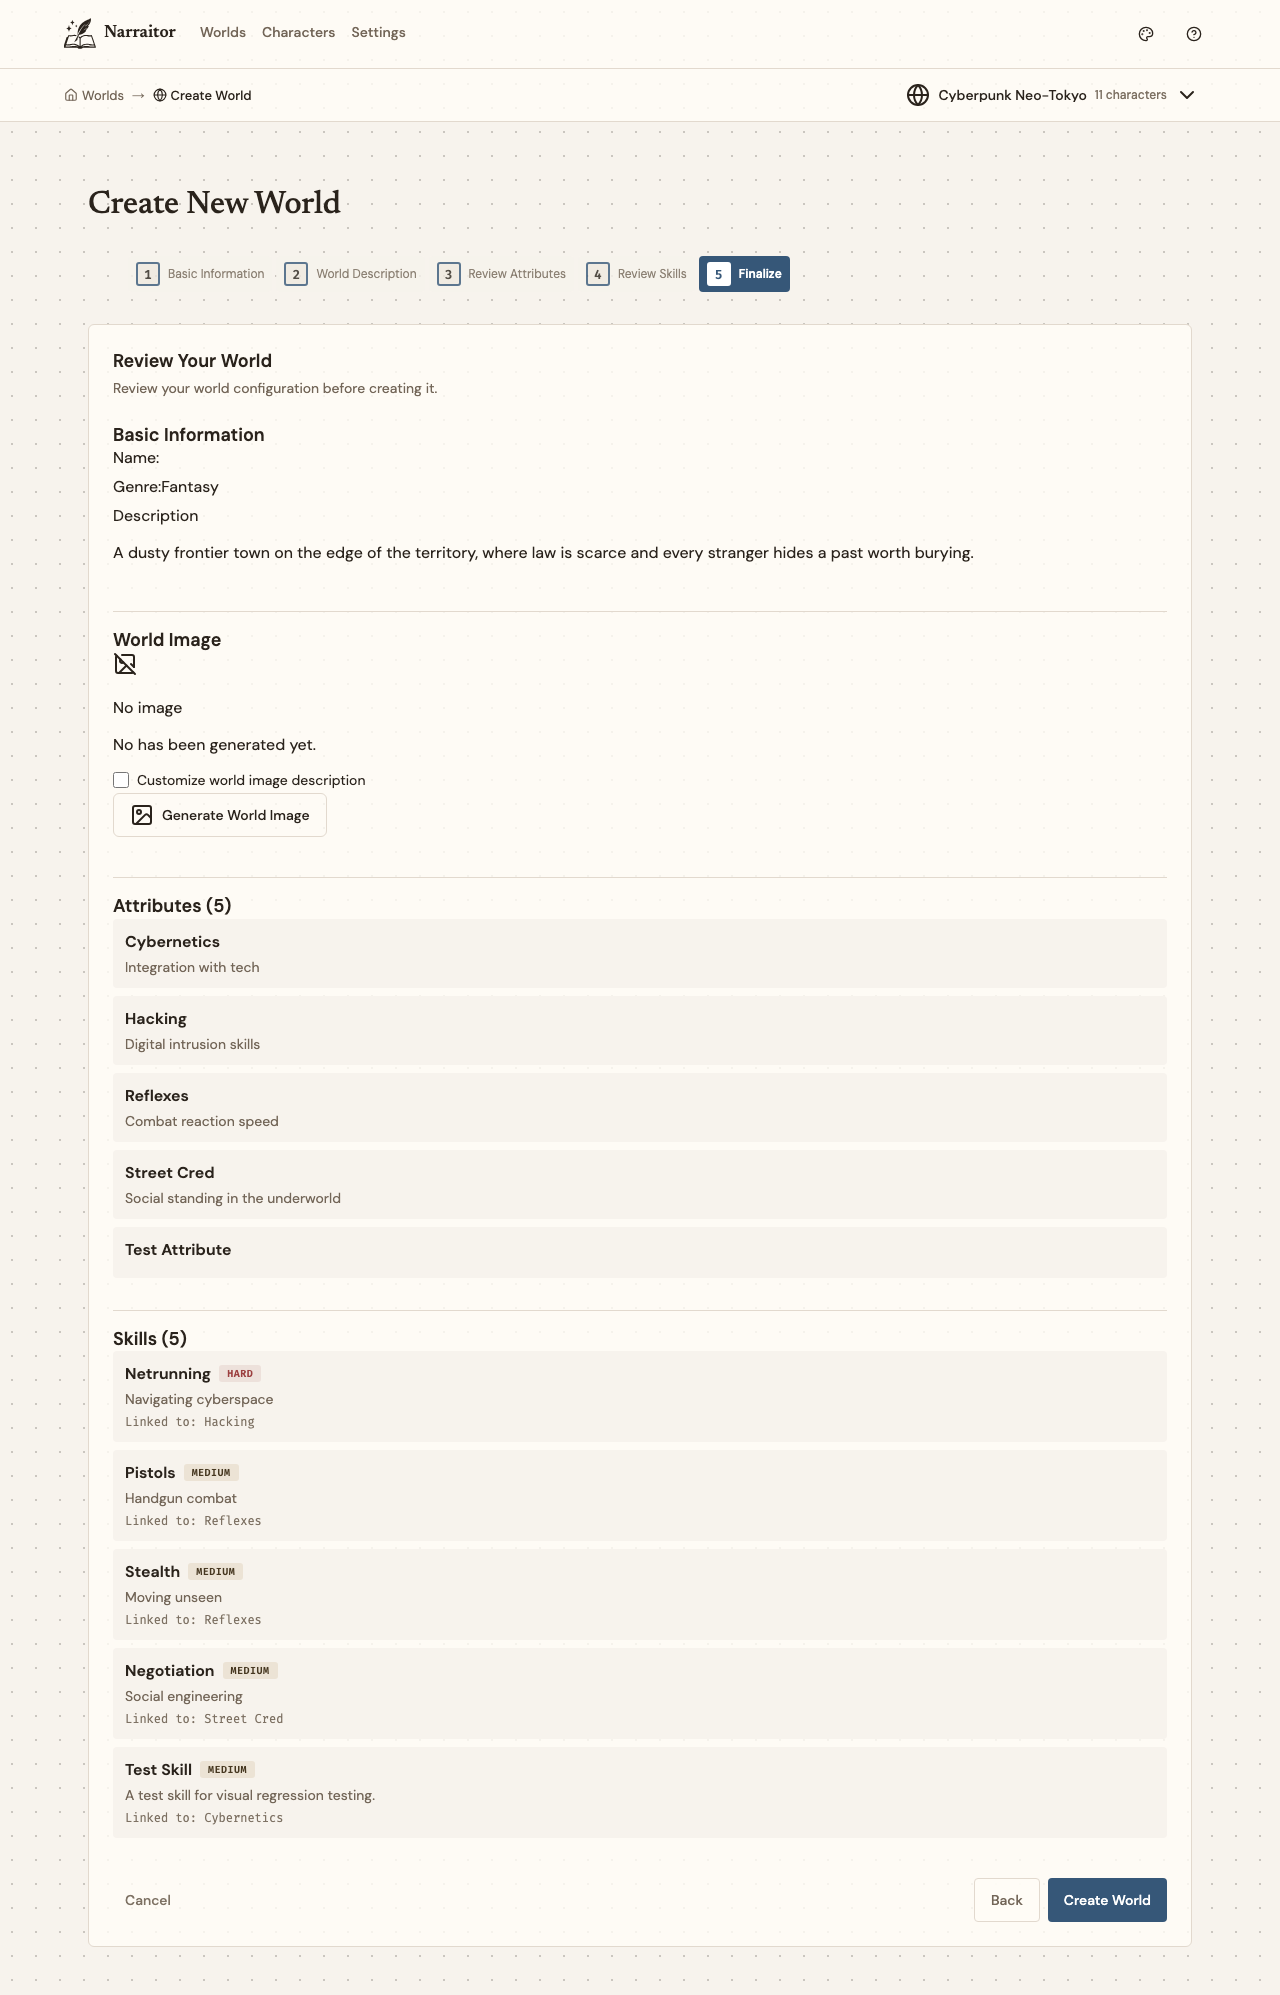
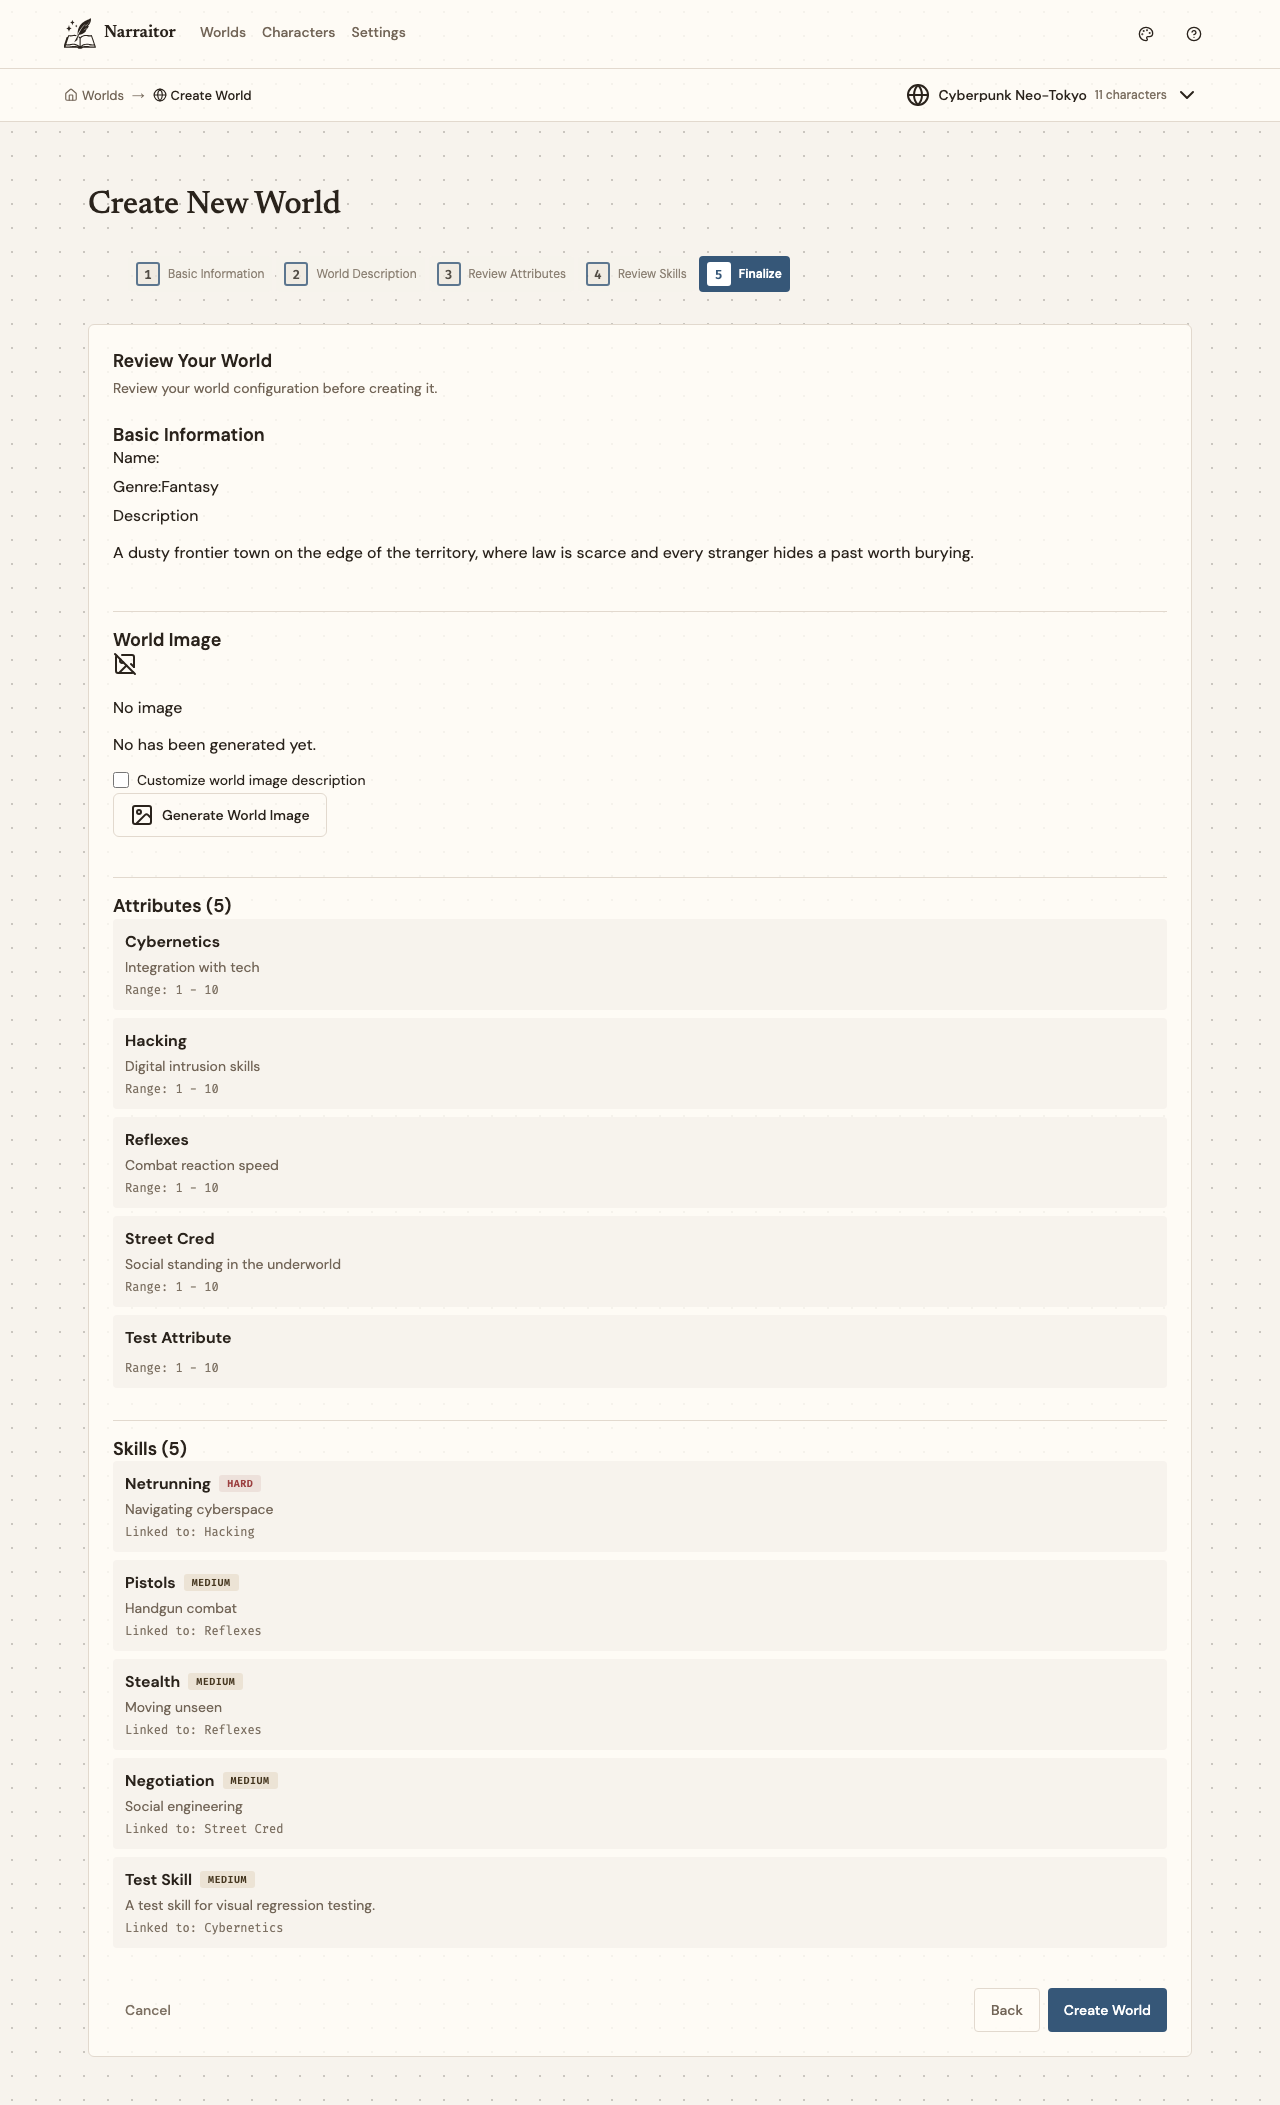
fix(wizard): address owner review feedback on a11y, radio grouping, ranges, and toggle styling

diff --git a/src/components/WorldCreationWizard/steps/FinalizeStep.test.tsx b/src/components/WorldCreationWizard/steps/FinalizeStep.test.tsx
@@ -1,0 +1,73 @@
+import React from 'react';
+import { render, screen } from '@testing-library/react';
+import FinalizeStep from './FinalizeStep';
+import { World } from '@/types/world.types';
+
+describe('FinalizeStep', () => {
+  const mockWorldData: Partial<World> = {
+    name: 'Aethelgard',
+    description: 'A realm of high fantasy and ancient magic',
+    genre: 'fantasy',
+    attributes: [
+      {
+        id: 'attr-1',
+        worldId: 'world-1',
+        name: 'Might',
+        description: 'Physical prowess and raw power',
+        baseValue: 10,
+        minValue: 1,
+        maxValue: 20,
+      },
+      {
+        id: 'attr-2',
+        worldId: 'world-1',
+        name: 'Wits',
+        description: 'Mental agility and cleverness',
+        baseValue: 10,
+        minValue: 3,
+        maxValue: 18,
+      },
+    ],
+    skills: [
+      {
+        id: 'skill-1',
+        worldId: 'world-1',
+        name: 'Swordsmanship',
+        description: 'Mastery of bladed weapons',
+        difficulty: 'medium',
+        baseValue: 1,
+        minValue: 0,
+        maxValue: 10,
+      },
+    ],
+  };
+
+  it('renders all attributes with name, description, and min/max range', () => {
+    render(
+      <FinalizeStep
+        worldData={mockWorldData}
+        onUpdateWorldData={jest.fn()}
+      />
+    );
+
+    expect(screen.getByText('Might')).toBeInTheDocument();
+    expect(screen.getByText('Physical prowess and raw power')).toBeInTheDocument();
+    expect(screen.getByText('Range: 1 - 20')).toBeInTheDocument();
+
+    expect(screen.getByText('Wits')).toBeInTheDocument();
+    expect(screen.getByText('Mental agility and cleverness')).toBeInTheDocument();
+    expect(screen.getByText('Range: 3 - 18')).toBeInTheDocument();
+  });
+
+  it('renders empty state when no attributes or skills are present', () => {
+    render(
+      <FinalizeStep
+        worldData={{ name: 'Empty World' }}
+        onUpdateWorldData={jest.fn()}
+      />
+    );
+
+    expect(screen.getByText('No attributes selected')).toBeInTheDocument();
+    expect(screen.getByText('No skills selected')).toBeInTheDocument();
+  });
+});

diff --git a/src/components/shared/wizard/__tests__/ToggleButton.test.tsx b/src/components/shared/wizard/__tests__/ToggleButton.test.tsx
@@ -1,0 +1,53 @@
+import { render, screen, fireEvent } from '@testing-library/react';
+import { ToggleButton } from '../components/ToggleButton';
+
+describe('ToggleButton', () => {
+  it('renders active state with aria-pressed="true" and active label', () => {
+    render(<ToggleButton isActive={true} onClick={jest.fn()} />);
+
+    const button = screen.getByRole('button');
+    expect(button).toHaveAttribute('aria-pressed', 'true');
+    expect(button).toHaveTextContent('Selected');
+    expect(button).toHaveClass('wizard-toggle-active');
+    expect(button).toHaveClass('component-toggle-button');
+  });
+
+  it('renders inactive state with aria-pressed="false" and inactive label', () => {
+    render(<ToggleButton isActive={false} onClick={jest.fn()} />);
+
+    const button = screen.getByRole('button');
+    expect(button).toHaveAttribute('aria-pressed', 'false');
+    expect(button).toHaveTextContent('Excluded');
+    expect(button).toHaveClass('wizard-toggle-inactive');
+  });
+
+  it('respects custom labels and accessible labels', () => {
+    render(
+      <ToggleButton
+        isActive={true}
+        activeLabel="Included"
+        inactiveLabel="Ignored"
+        aria-label="Toggle Magic skill"
+        onClick={jest.fn()}
+      />
+    );
+
+    const button = screen.getByRole('button', { name: 'Toggle Magic skill' });
+    expect(button).toHaveTextContent('Included');
+    expect(button).toHaveAttribute('aria-pressed', 'true');
+  });
+
+  it('handles click events and disabled state', () => {
+    const handleClick = jest.fn();
+    const { rerender } = render(<ToggleButton isActive={false} onClick={handleClick} />);
+
+    const button = screen.getByRole('button');
+    fireEvent.click(button);
+    expect(handleClick).toHaveBeenCalledTimes(1);
+
+    rerender(<ToggleButton isActive={false} onClick={handleClick} disabled={true} />);
+    fireEvent.click(button);
+    expect(handleClick).toHaveBeenCalledTimes(1);
+    expect(button).toBeDisabled();
+  });
+});

diff --git a/src/components/shared/wizard/__tests__/WizardProgress.test.tsx b/src/components/shared/wizard/__tests__/WizardProgress.test.tsx
@@ -26,14 +26,21 @@ describe('WizardProgress', () => {
     expect(listItems[4]).not.toHaveAttribute('aria-current');
   });
 
-  it('renders mobile step indicator with current label and step count', () => {
+  it('renders accessible mobile step indicator without aria-hidden on text content', () => {
     const { container } = render(<WizardProgress steps={steps} currentStep={1} />);
+
+    const mobileContainer = container.querySelector('.wizard-progress-mobile');
+    expect(mobileContainer).not.toHaveAttribute('aria-hidden');
 
     const mobileCount = container.querySelector('.wizard-progress-mobile-count');
     expect(mobileCount).toHaveTextContent('Step 2 of 5');
 
     const mobileCurrent = container.querySelector('.wizard-progress-mobile-current');
     expect(mobileCurrent).toHaveTextContent('Description');
+    expect(mobileCurrent).toHaveAttribute('aria-current', 'step');
+
+    const segmentsContainer = container.querySelector('.wizard-progress-segments');
+    expect(segmentsContainer).toHaveAttribute('aria-hidden', 'true');
 
     const segments = container.querySelectorAll('.wizard-progress-segment');
     expect(segments).toHaveLength(5);

diff --git a/src/components/WorldCreationWizard/steps/FinalizeStep.tsx b/src/components/WorldCreationWizard/steps/FinalizeStep.tsx
@@ -16,7 +16,7 @@ const logger = new Logger('FinalizeStep');
 
 interface FinalizeStepProps {
   worldData: Partial<World>;
-  errors: Record<string, string>;
+  errors?: Record<string, string>;
   onComplete?: () => void;
   onBack?: () => void;
   onCancel?: () => void;
@@ -25,7 +25,7 @@ interface FinalizeStepProps {
 
 export default function FinalizeStep({
   worldData,
-  errors,
+  errors = {},
   onUpdateWorldData,
 }: FinalizeStepProps) {
   const [isGeneratingImage, setIsGeneratingImage] = useState(false);
@@ -164,6 +164,9 @@ export default function FinalizeStep({
               <div key={index} className={`${wizardStyles.card.base} wizard-review-card`} data-testid={`review-attribute-${index}`}>
                 <div className="wizard-review-card-meta">{attr.name}</div>
                 <div className="wizard-review-card-detail">{attr.description}</div>
+                <div className="wizard-review-card-range">
+                  Range: {attr.minValue} - {attr.maxValue}
+                </div>
               </div>
             ))}
           </div>

diff --git a/src/components/shared/wizard/WizardProgress.tsx b/src/components/shared/wizard/WizardProgress.tsx
@@ -30,16 +30,16 @@ export const WizardProgress: React.FC<WizardProgressProps> = ({
       )}
     >
       {/* Mobile view: current label, step count, and segmented progress */}
-      <div className="wizard-progress-mobile" aria-hidden="true">
+      <div className="wizard-progress-mobile">
         <div className="wizard-progress-mobile-header">
           <span className="wizard-progress-mobile-count">
             Step {currentStep + 1} of {steps.length}
           </span>
-          <span className="wizard-progress-mobile-current">
+          <span className="wizard-progress-mobile-current" aria-current="step">
             {currentStepData?.label}
           </span>
         </div>
-        <div className="wizard-progress-segments">
+        <div className="wizard-progress-segments" aria-hidden="true">
           {steps.map((step, index) => (
             <div
               key={`segment-${step.id}`}

diff --git a/src/app/wizard.css b/src/app/wizard.css
@@ -634,22 +634,19 @@
 }
 
 .wizard-toggle-active {
-  background: var(--color-accent);
-  color: var(--color-on-accent);
-  border-color: var(--color-accent);
+  background: var(--color-surface);
+  color: var(--color-text-primary);
+  border-color: var(--color-border-strong);
 }
 
 .wizard-toggle-active:hover {
-  background: var(--color-accent-hover);
-  border-color: var(--color-accent-hover);
-
-  /* Hover darkens the accent (in dark mode too), so white clears AA here even
-   * though the base state uses dark ink on the lighter base accent. */
-  color: var(--color-text-inverse);
+  background: var(--color-surface-hover);
+  border-color: var(--color-border-strong);
+  color: var(--color-text-primary);
 }
 
 .wizard-toggle-inactive {
-  background: var(--color-surface);
+  background: transparent;
   color: var(--color-text-muted);
 }
 

diff --git a/src/components/WorldCreationWizard/steps/BasicInfoStep.test.tsx b/src/components/WorldCreationWizard/steps/BasicInfoStep.test.tsx
@@ -192,5 +192,20 @@ describe('BasicInfoStep', () => {
 
     expect(screen.queryByTestId('provider-key-disclosure')).not.toBeInTheDocument();
   });
-});
 
+  test('groups world type radio options under shared name for keyboard navigation', () => {
+    render(
+      <BasicInfoStep
+        worldData={mockWorldData}
+        errors={{}}
+        onUpdate={mockOnUpdate}
+      />
+    );
+
+    const radios = screen.getAllByRole('radio');
+    expect(radios.length).toBeGreaterThanOrEqual(3);
+    radios.forEach(radio => {
+      expect(radio).toHaveAttribute('name', 'world-type');
+    });
+  });
+});

diff --git a/src/components/WorldCreationWizard/steps/BasicInfoStep.tsx b/src/components/WorldCreationWizard/steps/BasicInfoStep.tsx
@@ -93,6 +93,7 @@ export default function BasicInfoStep({
             helpText="Pick how closely this world should track an existing setting. The choice controls whether your world invents new canon or leans on established material."
           >
             <RadioGroup
+              name="world-type"
               value={worldData.relationship || 'original'}
               onValueChange={(val: string) => {
                 if (val === 'original') {

diff --git a/src/components/shared/wizard/components/ToggleButton.tsx b/src/components/shared/wizard/components/ToggleButton.tsx
@@ -35,6 +35,7 @@ export const ToggleButton: React.FC<ToggleButtonProps> = ({
       disabled={disabled}
       title={title}
       aria-label={resolvedAriaLabel}
+      aria-pressed={isActive}
       className={`component-toggle-button ${wizardStyles.toggle.button} ${
         isActive ? wizardStyles.toggle.active : wizardStyles.toggle.inactive
       } ${className}`.trim()}

diff --git a/src/components/CharacterCreationWizard/CharacterCreationWizard.tsx b/src/components/CharacterCreationWizard/CharacterCreationWizard.tsx
@@ -371,7 +371,7 @@ export const CharacterCreationWizard: React.FC<CharacterCreationWizardProps> = (
             <WizardStep error={error}>
               {renderStep()}
             </WizardStep>
-            
+
             <WizardNavigation
               onCancel={handleCancel}
               onBack={wizard.canGoBack ? handleBack : undefined}

diff --git a/src/components/WorldCreationWizard/WorldCreationWizard.tsx b/src/components/WorldCreationWizard/WorldCreationWizard.tsx
@@ -582,7 +582,7 @@ export default function WorldCreationWizard({
               {renderCurrentStep()}
             </div>
           </WizardStep>
-          
+
           <WizardNavigation
             onCancel={handleCancel}
             onBack={wizard.canGoBack ? handleBack : undefined}

diff --git a/tests/visual/character-creation.spec.ts b/tests/visual/character-creation.spec.ts
@@ -248,4 +248,3 @@ test('Character creation wizard visual sequence - Mobile (Steps 1–5)', async (
   test.setTimeout(90000);
   await runCharacterCreationSequence(page, 'character-creation-mobile-', { isMobile: true });
 });
-
